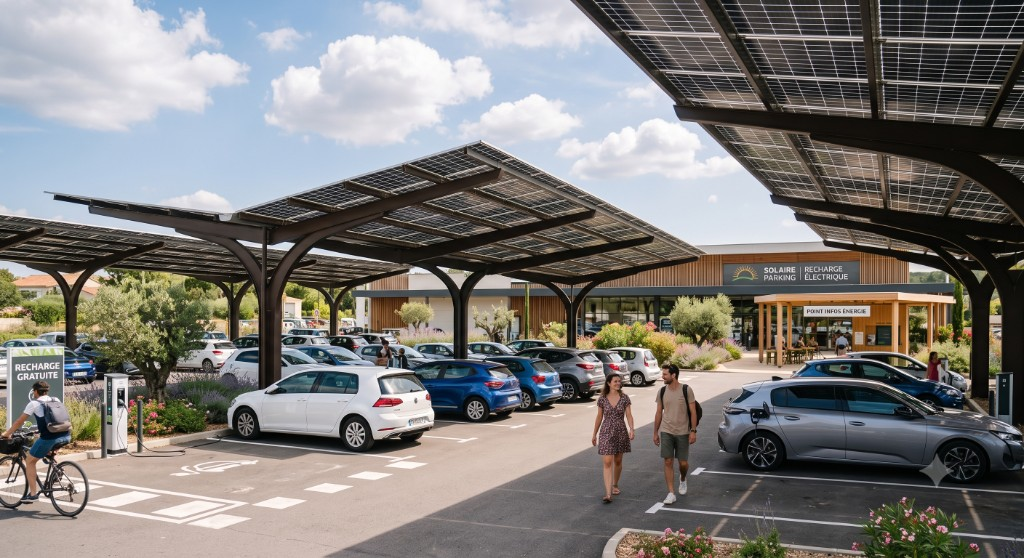
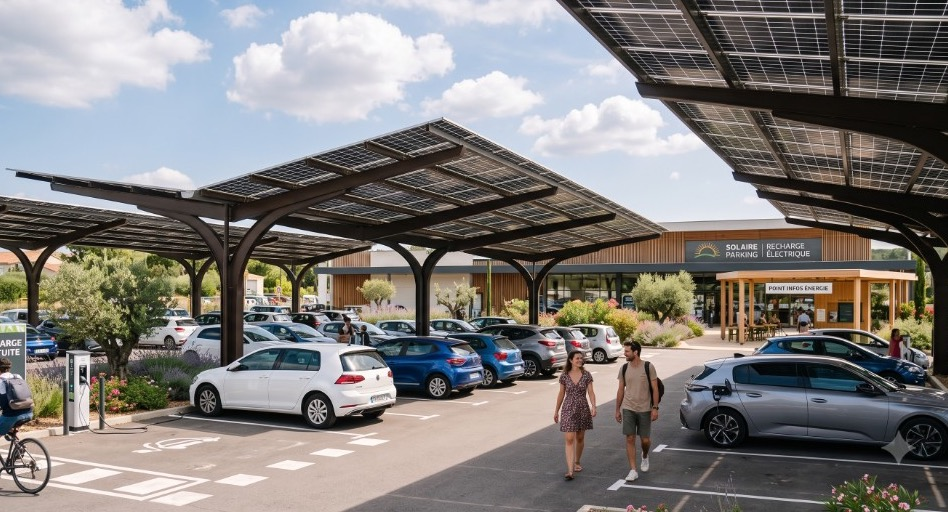
mieux

diff --git a/app/globals.css b/app/globals.css
@@ -112,9 +112,14 @@ body {
     @apply bg-gradient-to-r from-solar-300 via-solar to-solar-600 bg-clip-text text-transparent;
   }
 
-  /* Hero + zones sombres — image de fond page d'accueil */
+  /* Hero + zones sombres — image de fond page d'accueil, plein écran sous le header */
   .hero-surface {
-    @apply relative isolate min-h-[32rem] bg-night-950 text-slate-200 sm:min-h-[36rem];
+    @apply relative isolate flex min-h-[calc(100dvh-4.75rem)] flex-col bg-night-950 text-slate-200;
+    min-height: calc(100dvh - 4.75rem);
+  }
+
+  .site-chrome:has(.news-ticker) + main .hero-surface {
+    min-height: calc(100dvh - 8rem);
   }
 
   .hero-surface::before {
@@ -378,7 +383,7 @@ body {
   }
 
   .news-ticker-badge {
-    @apply shrink-0 rounded-lg border border-night/15 bg-night px-3 py-1 text-[11px] font-extrabold uppercase tracking-widest text-solar sm:text-xs;
+    @apply shrink-0 rounded-lg border border-white/10 bg-night px-3 py-1 text-[11px] font-extrabold uppercase tracking-widest text-white sm:text-xs;
   }
 
   .news-ticker-viewport {
@@ -438,7 +443,7 @@ body {
   }
 
   .home-news-banner-panel {
-    @apply mx-auto overflow-hidden rounded-2xl border border-night/10 bg-night/[0.04] shadow-sm;
+    @apply mx-auto overflow-hidden rounded-2xl border border-night/20 bg-night text-slate-100 shadow-lg;
   }
 
   .home-news-banner-panel-split {
@@ -466,19 +471,19 @@ body {
   }
 
   .home-news-banner-eyebrow {
-    @apply flex flex-wrap items-center justify-center gap-2 text-xs font-bold uppercase tracking-widest text-night/70 sm:text-sm;
+    @apply flex flex-wrap items-center justify-center gap-2 text-xs font-bold uppercase tracking-widest text-slate-400 sm:text-sm;
   }
 
   .home-news-banner-badge {
-    @apply rounded-lg border border-night/15 bg-night px-2.5 py-0.5 text-[10px] font-extrabold uppercase tracking-widest text-solar sm:text-[11px];
+    @apply rounded-lg border border-white/10 bg-night-950 px-2.5 py-0.5 text-[10px] font-extrabold uppercase tracking-widest text-white sm:text-[11px];
   }
 
   .home-news-banner-excerpt {
-    @apply mt-5 max-w-2xl text-lg font-medium leading-relaxed text-night/90 sm:mt-6 sm:text-xl sm:leading-relaxed;
+    @apply mt-5 max-w-2xl text-lg font-medium leading-relaxed text-slate-100 sm:mt-6 sm:text-xl sm:leading-relaxed;
   }
 
   .home-news-banner-link {
-    @apply mt-6 inline-flex items-center gap-1 rounded-lg border border-night/20 bg-night px-5 py-2.5 text-sm font-bold text-solar transition hover:bg-night/90;
+    @apply mt-6 inline-flex items-center gap-1 rounded-lg border border-white/15 bg-night-950 px-5 py-2.5 text-sm font-bold text-white transition hover:bg-night-800;
   }
 
   .home-news-banner-nav {

diff --git a/components/HomeHeroPersona.tsx b/components/HomeHeroPersona.tsx
@@ -58,8 +58,8 @@ export default function HomeHeroPersona() {
 
   return (
     <section className="hero-surface relative overflow-hidden">
-      <div className="container-x relative pt-14 pb-8 sm:pt-20 sm:pb-10">
-        <div className="mx-auto max-w-4xl text-center animate-fade-up">
+      <div className="container-x relative flex flex-1 flex-col justify-center py-10 sm:py-14">
+        <div className="mx-auto w-full max-w-4xl text-center animate-fade-up">
           {showChooser ? (
             <>
               <h1 className="text-4xl font-extrabold leading-[1.08] tracking-tight text-white sm:text-5xl lg:text-[3.25rem]">
@@ -92,7 +92,7 @@ export default function HomeHeroPersona() {
         </div>
       </div>
 
-      <div className="flex justify-center pb-14 sm:pb-16">
+      <div className="mt-auto flex justify-center pb-8 pt-4 sm:pb-10">
         <a
           href="#loi-aper"
           className="group flex flex-col items-center gap-1 text-xs font-medium uppercase tracking-widest text-slate-300 transition hover:text-white"
